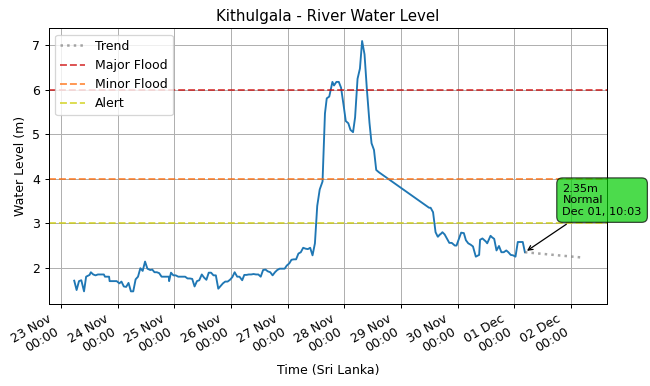
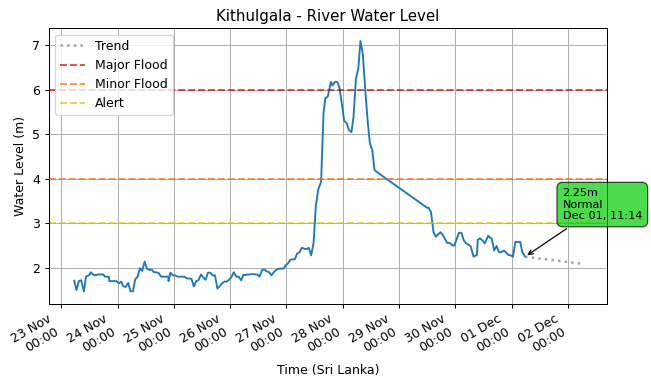
🤖 [update_latest.yml] 2025-12-01-0551

diff --git a/README.md b/README.md
@@ -1,11 +1,11 @@
 # lk_irrigation 🇱🇰
 
 ![Status: Live](https://img.shields.io/badge/status-live-brightgreen)
-![LastUpdated](https://img.shields.io/badge/last_updated-2025--12--01_11:08:54-green)
+![LastUpdated](https://img.shields.io/badge/last_updated-2025--12--01_11:14:02-green)
 
 Realtime Data about *River Water Levels* in Sri Lanka, from the [Irrigation Deptartment](https://www.irrigation.gov.lk)'s [Hydrology and Disaster Management](https://www.irrigation.gov.lk/web/index.php?option=com_content&view=article&id=27&Itemid=128&lang=en) Division.
 
-- [Complete Dataset](data/rwlds) with **6,592 measurements** from **39** stations.
+- [Complete Dataset](data/rwlds) with **6,593 measurements** from **39** stations.
 - [Scrape and load logic](src/lk_irrigation/rwld/RiverWaterLevelDataLoadMixin.py)
 - [Original Data source](https://www.arcgis.com/apps/dashboards/2cffe83c9ff5497d97375498bdf3ff38)
 
@@ -15,10 +15,11 @@ Realtime Data about *River Water Levels* in Sri Lanka, from the [Irrigation Dept
 
 ## Latest measurements
 
-*There were **37** measurements in the last **1 hour**.*
+*There were **35** measurements in the last **1 hour**.*
 
 | Measured At | Station (River Basin) | Level (m) | Alert Level | Rate-of-Rise (m/hr) | Rising Alert |
 | --- | --- | ---: | --- | ---: | --- |
+| 2025-12-01 11:14:02 | Kithulgala (Kelani Ganga) | 2.25 | 🟢 Normal | -0.085 |  |
 | 2025-12-01 11:08:54 | Ellagawa (Kalu Ganga) | 11.13 | 🟠 Minor Flood | -0.054 |  |
 | 2025-12-01 11:08:35 | Dunamale (Aththanagalu Oya) | 4.06 | 🟡 Alert | -0.037 |  |
 | 2025-12-01 11:08:23 | Urawa (Nilwala Ganga) | 0.71 | 🟢 Normal | 0.000 |  |
@@ -53,9 +54,6 @@ Realtime Data about *River Water Levels* in Sri Lanka, from the [Irrigation Dept
 | 2025-12-01 11:00:28 | Horowpothana (Yan Oya) | 7.07 | 🟡 Alert | -0.030 |  |
 | 2025-12-01 10:49:37 | Nakkala (Kumbukkan Oya) | 1.68 | 🟢 Normal | 0.000 |  |
 | 2025-12-01 10:41:11 | Manampitiya (Mahaweli Ganga) | 3.25 | 🟡 Alert | -0.034 |  |
-| 2025-12-01 10:20:37 | Panadugama (Nilwala Ganga) | 3.36 | 🟢 Normal | -0.025 |  |
-| 2025-12-01 10:17:42 | Urawa (Nilwala Ganga) | 0.71 | 🟢 Normal | 0.000 |  |
-| 2025-12-01 10:12:51 | Ellagawa (Kalu Ganga) | 11.18 | 🟠 Minor Flood | -0.054 |  |
 
 ## Latest by Station
 
@@ -98,9 +96,9 @@ Realtime Data about *River Water Levels* in Sri Lanka, from the [Irrigation Dept
 | 2025-12-01 11:04:11 | Giriulla (Maha Oya) | 3.15 | 🟢 Normal | -0.042 |  |
 | 2025-12-01 11:02:51 | Deraniyagala (Kelani Ganga) | 1.32 | 🟢 Normal | -0.051 |  |
 | 2025-12-01 09:22:17 | Badalgama (Maha Oya) | 4.19 | 🟢 Normal | -0.082 |  |
+| 2025-12-01 11:14:02 | Kithulgala (Kelani Ganga) | 2.25 | 🟢 Normal | -0.085 |  |
 | 2025-12-01 11:01:25 | Glencourse (Kelani Ganga) | 12.79 | 🟢 Normal | -0.108 |  |
 | 2025-12-01 11:05:28 | Galgamuwa (Mee Oya) | 4.22 | 🟢 Normal | -0.117 |  |
-| 2025-12-01 10:03:10 | Kithulgala (Kelani Ganga) | 2.35 | 🟢 Normal | -0.255 |  |
 | 2025-12-01 11:00:31 | Thanamalwila (Kirindi Oya) | 0.51 | 🟢 Normal | -1.032 |  |
 
 ## River Water Level Charts by Station
@@ -245,6 +243,10 @@ Realtime Data about *River Water Levels* in Sri Lanka, from the [Irrigation Dept
 
 ![Badalgama](images/stations/badalgama.png)
 
+### Kithulgala (Kelani Ganga)
+
+![Kithulgala](images/stations/kithulgala.png)
+
 ### Glencourse (Kelani Ganga)
 
 ![Glencourse](images/stations/glencourse.png)
@@ -252,10 +254,6 @@ Realtime Data about *River Water Levels* in Sri Lanka, from the [Irrigation Dept
 ### Galgamuwa (Mee Oya)
 
 ![Galgamuwa](images/stations/galgamuwa.png)
-
-### Kithulgala (Kelani Ganga)
-
-![Kithulgala](images/stations/kithulgala.png)
 
 ### Thanamalwila (Kirindi Oya)
 
